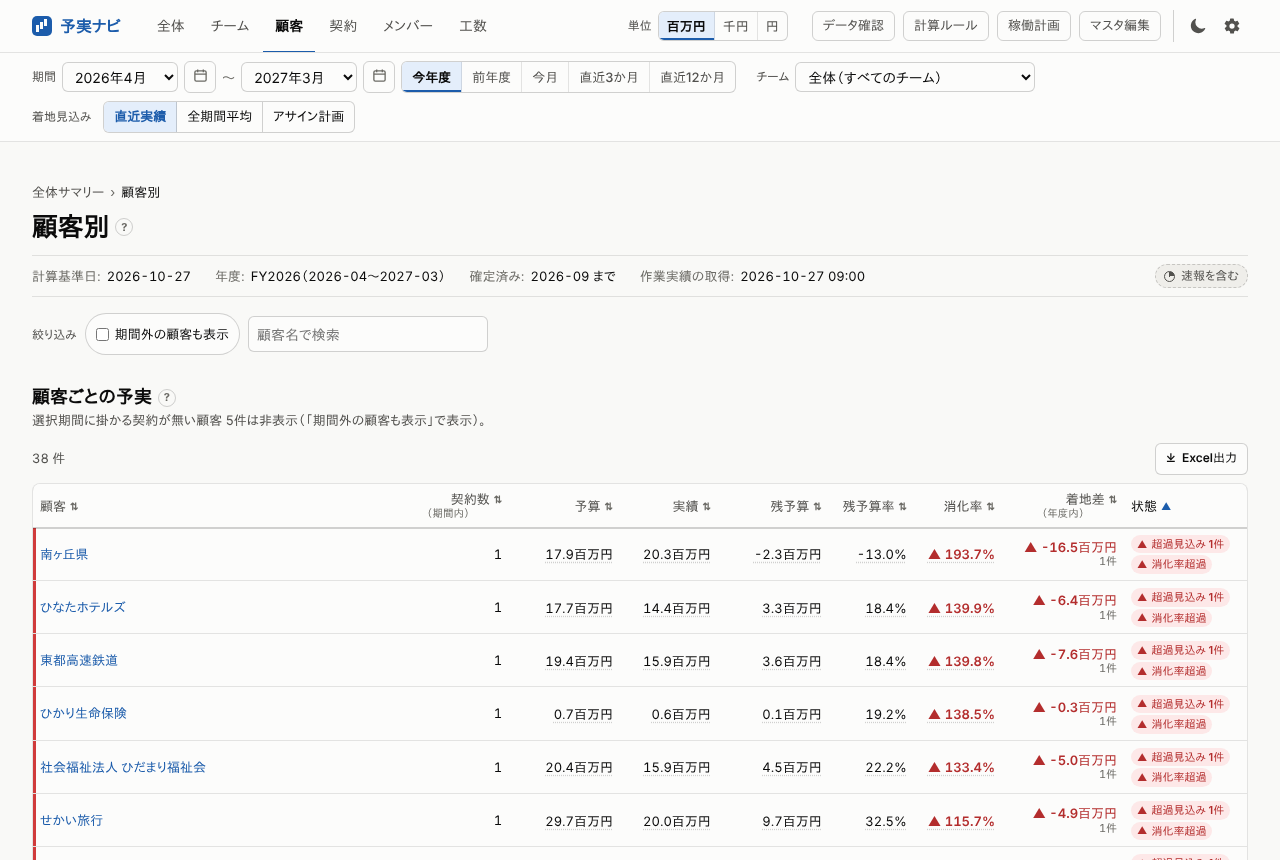
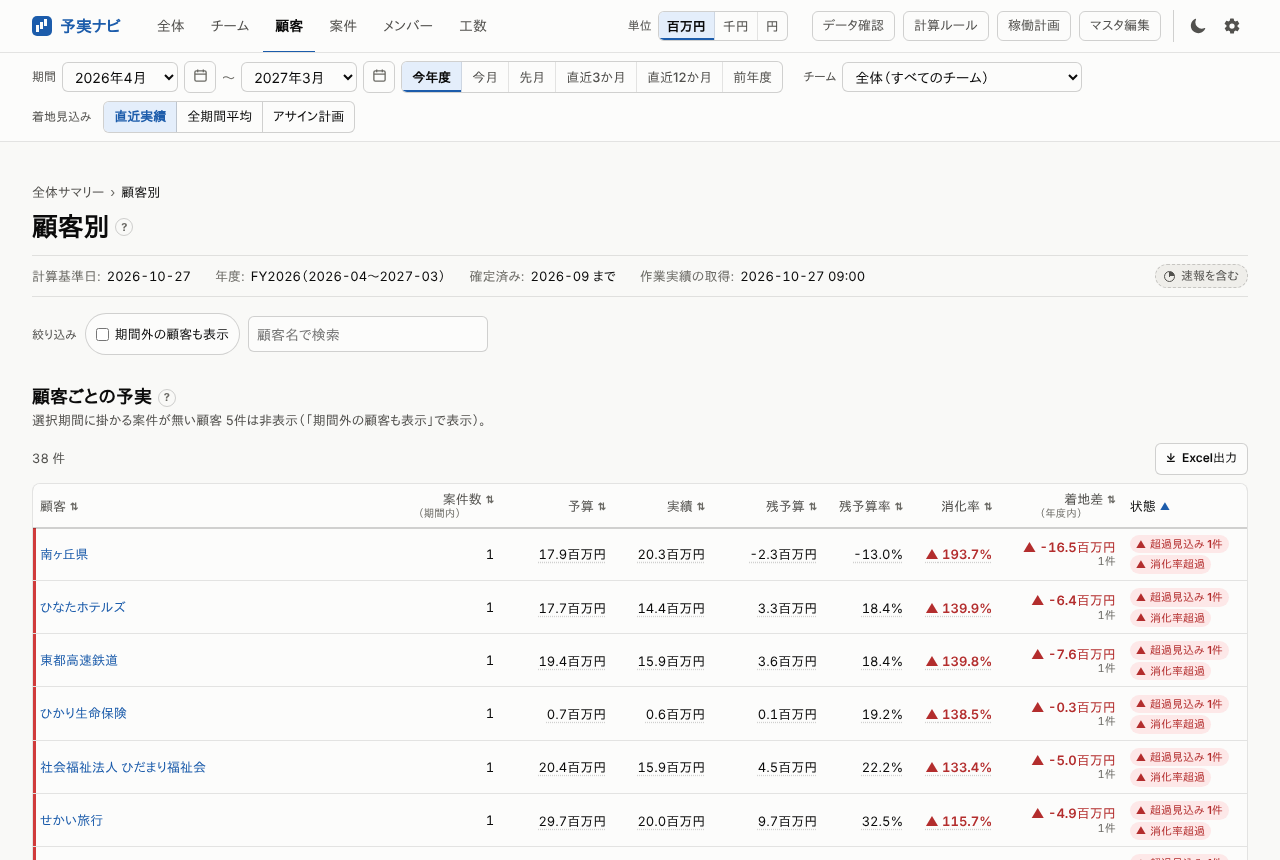
長い名前で表が横に伸びないよう調整、稼働計画の編集欄が画面外に出る不具合を修正、スクリーンショットを「案件」の画面で撮り直し
- 「顧客 / 案件」の 2 段表示は 1200px 以上で 320px まで広げ、省略を減らす。作業種別名は 260px で折り返す（顧客詳細の作業種別の表が横スクロールになっていた）。名前列の上限は 300px（チーム一覧が 1280px で 17px はみ出していた）
- 稼働計画の編集欄: 開いたまま画面の高さを縮めてセルが画面外に出ると、欄も画面外に置かれ「反映」を押せなかった。必ず画面内に収める
- 1280px で横スクロールにならないこと・編集欄が画面内に残ることを E2E に追加

Claude-Session: https://claude.ai/code/session_01JvFhvJyJScyrJZsdYcR8QW

diff --git a/src/style.css b/src/style.css
@@ -1362,7 +1362,7 @@ h3 {
 }
 /* 名前列は sticky なので、長い名前で広がると数値列が隠れる。上限を設けて省略し、全文は title で出す */
 .yn-table .yn-primary-cell {
-  max-width: min(40vw, 320px);
+  max-width: min(40vw, 300px);
   overflow: hidden;
   text-overflow: ellipsis;
 }
@@ -1401,12 +1401,18 @@ h3 {
   font-size: 12px;
   color: var(--yn-text-muted);
 }
+/* 長い案件名（顧客 / 案件）が多いので、広い画面では名前列を広げて省略を減らす（全文は title） */
 .yn-cell-2line {
   display: inline-flex;
   flex-direction: column;
   line-height: 1.3;
   max-width: 200px;
   vertical-align: middle;
+}
+@media (min-width: 1200px) {
+  .yn-cell-2line {
+    max-width: min(24vw, 320px);
+  }
 }
 .yn-cell-main,
 .yn-cell-sub {
@@ -3387,4 +3393,12 @@ html:has(dialog.yn-dialog[open]) {
 }
 .yn-chart-zoom-rotate[hidden] {
   display: none !important;
+}
+
+/* 長い作業種別名（「定期メンテナンス作業（…）」など）で表が横に伸びないよう、幅を決めて折り返す */
+.yn-task-name {
+  display: inline-block;
+  max-width: 260px;
+  white-space: normal;
+  vertical-align: middle;
 }

diff --git a/src/components/work.js b/src/components/work.js
@@ -76,7 +76,7 @@ export function workTaskSection({ rows, months, unit, config, title = T.work.sec
       key: "task",
       label: T.work.colTask,
       type: "text",
-      render: (r) => html`<span>${taskLabel(r)}${r.unclassified ? html` <span class="yn-chip yn-chip-neutral" title=${T.work.unclassifiedTitle}>${T.work.unclassified}</span>` : null}${r.category === "outside" ? html` <span class="yn-chip yn-chip-neutral only-phone">${T.work.outside}</span>` : null}</span>`,
+      render: (r) => html`<span><span class="yn-task-name" title=${taskLabel(r)}>${taskLabel(r)}</span>${r.unclassified ? html` <span class="yn-chip yn-chip-neutral" title=${T.work.unclassifiedTitle}>${T.work.unclassified}</span>` : null}${r.category === "outside" ? html` <span class="yn-chip yn-chip-neutral only-phone">${T.work.outside}</span>` : null}</span>`,
       sortValue: (r) => r.task,
       exportValue: (r) => taskLabel(r),
     },

diff --git a/tests/e2e/scale-data.spec.ts b/tests/e2e/scale-data.spec.ts
@@ -69,3 +69,16 @@ for (const path of ["/contracts", "/customers", "/workload", "/members", "/teams
     expect(over).toBeLessThanOrEqual(1);
   });
 }
+
+for (const path of ["/teams", "/contracts", "/customer?key=" + encodeURIComponent("青葉物流"), "/members"]) {
+  test(`1280px: 長い組織名・作業種別名でも ${path} の表が横スクロールにならない`, async ({ page }) => {
+    await page.setViewportSize({ width: 1280, height: 900 });
+    await gotoPage(page, path);
+    const over = await page.evaluate(() =>
+      [...document.querySelectorAll(".yn-table-scroll")]
+        .filter((e) => e.scrollWidth - e.clientWidth > 1)
+        .map((e) => e.querySelector("caption")?.textContent ?? "?"),
+    );
+    expect(over).toEqual([]);
+  });
+}

diff --git a/src/components/plan-cell.js b/src/components/plan-cell.js
@@ -20,7 +20,9 @@ export function placeNear(el, anchor, { width = 320, gap = 6, margin = 8 } = {})
   const h = el.offsetHeight;
   const below = r.bottom + gap;
   const above = r.top - gap - h;
-  el.style.top = `${below + h <= vh - margin ? below : above >= margin ? above : Math.max(margin, vh - margin - h)}px`;
+  const top = below + h <= vh - margin ? below : above >= margin ? above : vh - margin - h;
+  // 画面の高さが変わってセルが画面外に出たとき（下にも上にも入らないとき）も、必ず画面内に収める
+  el.style.top = `${Math.max(margin, Math.min(top, vh - margin - h))}px`;
 }
 
 export function planCellTooltip() {

diff --git a/docs/UI_NOTES.md b/docs/UI_NOTES.md
@@ -101,6 +101,9 @@ spec の組み立て関数: `budgetMonthSpec` / `budgetAggregateSpec` / `costMon
 合計行（`summary`）は行用の `breakdown(row)` を使わず、`summaryBreakdown(col)` が spec を返す列だけ根拠ボタンになる（案件一覧は表示中の契約 ID を母集団に `aggregate()` / `forecastTotals()` で合計し、同じ ID 集合で根拠を開く。案件詳細の月表の合計行は KPI と同じ `Totals` を表示し、根拠ボタンは付けない）。
 Excel 出力は **今見えている行（並べ替え・絞り込み後）** を `.xlsx` に。金額は **表示単位に関係なく常に円の整数**（列名「…（円）」、1 行目に「単位: 円」の注記、2 行目が見出し）。千円表示は画面だけの都合で、行ごとに丸めた値を出力して合計がずれることを避ける。割合は % の数値、月は `YYYY-MM`。画面に合計行（tfoot）がある表は、最終行に同じ合計を出す。
 幅の工夫（1280px で標準列がスクロール無しで収まるように）: 先頭列は `position: sticky`（横スクロール時も名前が残る）、横スクロールが必要なときは両端に影とツールバーに「横にスクロールできます」を出す（`.yn-table-scroll.is-scrollable`）。案件一覧・赤字一覧は「顧客 / 案件」と「ID・チーム・期間（YY/MM）」の 2 行セル（`contractNameCell()`、`title` に正式表記、Excel には別列で出力 = `exportOnly`）。コンテナ幅 820px 以下で `hideNarrow` 列（案件数・状態・時間など）を隠し、700px 以下で文字 11.5px/余白 3px に詰める。
+
+長い名前（5 倍のダミーデータで確認）: 名前列は最大 300px で省略し全文は `title`。「顧客 / 案件」の 2 段表示（`.yn-cell-2line`）は 1200px 以上で最大 320px まで広げる。作業種別名（`.yn-task-name`）は 260px で折り返す。1280px で一覧・顧客詳細・チーム一覧が横スクロールにならないことを `tests/e2e/scale-data.spec.ts` で確かめている。
+
 状態チップ（`rowStatus()`）は配列で、契約は「超過見込み」「消化率超過」、チーム行は「超過見込み N件」（配下の超過見込み案件数）「消化率超過」。既定の並びは `statusSortValue()`（赤を先頭、その中は消化率の高い順）。
 案件詳細の月表は、予定（future）の月に選択方式の見込み額（`forecastMonthlyCost`）を斜体＋「見込」チップで表示し、残予算・残予算率もそれに基づく（実績の無い月に 100% を出さない）。年度外の未来月（着地見込みの対象外）は状態を「年度外」とし、実績・残予算・残予算率は「—」（根拠ボタン無し）。月次推移の表とグラフも同じ扱い（グラフは予算棒をさらに薄くし、下に注記）。合計行の実績・残予算は実績月のみ。
 チーム行の「案件数」は期間内の契約、「着地差」は年度に掛かる契約が母集団で別物。見出しの 2 行目で「（期間内）」「（年度内）」と示し、着地差セルの 2 行目に年度内の件数を併記する（Excel には「案件数（年度内）」列）。
